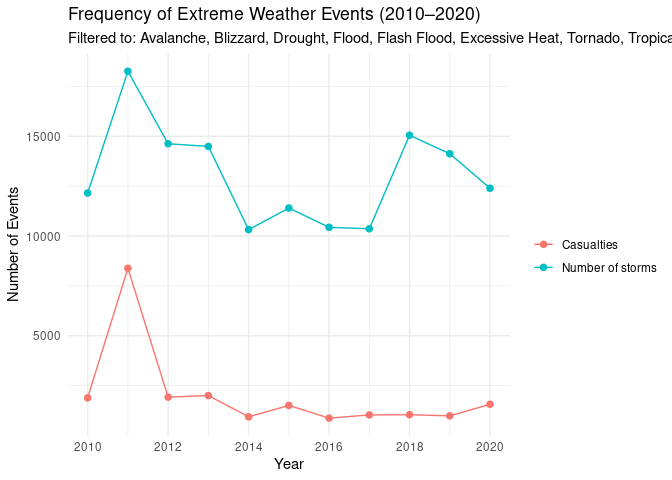
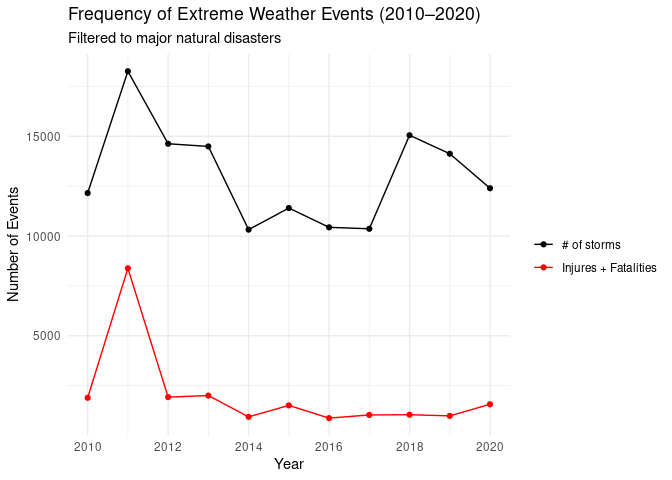
update fatalities graph + ggsave

diff --git a/proposal/proposal.md b/proposal/proposal.md
@@ -6,6 +6,7 @@ Team Weather- Colin, Kailor & Jennifer
 library(tidyverse)
 library(broom)
 library(lubridate)
+library(RColorBrewer)
 ```
 
 ## 1. Introduction
@@ -310,6 +311,38 @@ storms|>
 ![](proposal_files/figure-gfm/storm_by_type-1.png)<!-- -->
 
 ``` r
+storm_casualties <- storms |> 
+  rowwise(EVENT_ID)|>
+  mutate(CASUALTIES = sum(c(INJURIES_DIRECT, INJURIES_INDIRECT, DEATHS_DIRECT, DEATHS_INDIRECT)))|>
+  filter(BEGIN_YEAR == 2011)|>
+  arrange(desc(CASUALTIES))
+
+print(storm_casualties)
+```
+
+    ## # A tibble: 18,259 × 32
+    ## # Rowwise:  EVENT_ID
+    ##    BEGIN_YEAR BEGIN_MONTH BEGIN_DAY BEGIN_TIME END_YEARMONTH END_DAY END_TIME
+    ##         <int>       <int>     <dbl>      <dbl>         <dbl>   <dbl>    <dbl>
+    ##  1       2011           5        22       1640        201105      22     1700
+    ##  2       2011           4        27       1548        201104      27     1635
+    ##  3       2011           4        27       1635        201104      27     1714
+    ##  4       2011           7        21        900        201107      24     1900
+    ##  5       2011           7        17       1200        201107      31     2359
+    ##  6       2011           4        27       1934        201104      27     1956
+    ##  7       2011           6         1       1517        201106       1     1609
+    ##  8       2011           7         9       1430        201107      31     2359
+    ##  9       2011           7        17       1200        201107      31     2359
+    ## 10       2011           8         1        600        201108       6      221
+    ## # ℹ 18,249 more rows
+    ## # ℹ 25 more variables: EPISODE_ID <dbl>, EVENT_ID <dbl>, STATE <chr>,
+    ## #   MONTH_NAME <chr>, EVENT_TYPE <chr>, BEGIN_DATE_TIME <chr>,
+    ## #   CZ_TIMEZONE <chr>, END_DATE_TIME <chr>, INJURIES_DIRECT <dbl>,
+    ## #   INJURIES_INDIRECT <dbl>, DEATHS_DIRECT <dbl>, DEATHS_INDIRECT <dbl>,
+    ## #   DAMAGE_PROPERTY <chr>, DAMAGE_CROPS <chr>, SOURCE <chr>, MAGNITUDE <lgl>,
+    ## #   MAGNITUDE_TYPE <lgl>, FLOOD_CAUSE <chr>, CATEGORY <lgl>, BEGIN_LAT <dbl>, …
+
+``` r
 storms_by_year <- storms %>%
   count(BEGIN_YEAR, name = "n_events")
 
@@ -326,19 +359,21 @@ casualties_storms <- left_join(storm_casualties, storms_by_year)
 
 ``` r
 ggplot(casualties_storms, aes(BEGIN_YEAR)) +
-  geom_line(aes(y = n_events, color = "Number of storms")) +
-  geom_line(aes(y = casualties_year, color = "Casualties"))+
-  geom_point(aes(y = n_events, color = "Number of storms"), size = 2) +
-  geom_point(aes(y = casualties_year, color = "Casualties"), size = 2)+
-  #geom_point(size = 2) +
+  geom_line(aes(y = n_events, color = "orange")) +
+  geom_line(aes(y = casualties_year, color = "red"))+
+  geom_point(aes(y = n_events, color = "orange")) +
+  geom_point(aes(y = casualties_year, color = "red"))+
   labs(
     title = "Frequency of Extreme Weather Events (2010–2020)",
-    subtitle = "Filtered to: Avalanche, Blizzard, Drought, Flood, Flash Flood, Excessive Heat, Tornado, Tropical Storm, Tsunami,Wildfire",
+    subtitle = "Filtered to major natural disasters",
     x = "Year",
     y = "Number of Events",
     color = ""
   ) +
   theme_minimal()+
+  scale_color_manual(
+    values = c("orange" = "black", "red" = "red"),
+    labels = c("orange" = "# of storms", "red" = "Injures + Fatalities"))+
   scale_x_continuous(breaks = c(2010,2012,2014,2016,2018,2020))
 ```
 
@@ -353,7 +388,7 @@ ggplot(storms_by_year, aes(x = BEGIN_YEAR, y = n_events)) +
   geom_point(size = 2) +
   labs(
     title = "Frequency of Extreme Weather Events (2010–2020)",
-    subtitle = "Filtered to: Avalanche, Blizzard, Drought, Flood, Flash Flood, Excessive Heat, Tornado, Tropical Storm, Tsunami,Wildfire",
+    subtitle = "Filtered to major natural disasters",
     x = "Year",
     y = "Number of Events"
   ) +
@@ -361,4 +396,12 @@ ggplot(storms_by_year, aes(x = BEGIN_YEAR, y = n_events)) +
   scale_x_continuous(breaks = c(2010,2012,2014,2016,2018,2020))
 ```
 
-![](proposal_files/figure-gfm/old_graph-1.png)<!-- --> \`\`\`
+![](proposal_files/figure-gfm/old_graph-1.png)<!-- -->
+
+``` r
+ggsave("storms_by_year.png")
+```
+
+    ## Saving 7 x 5 in image
+
+\`\`\`
